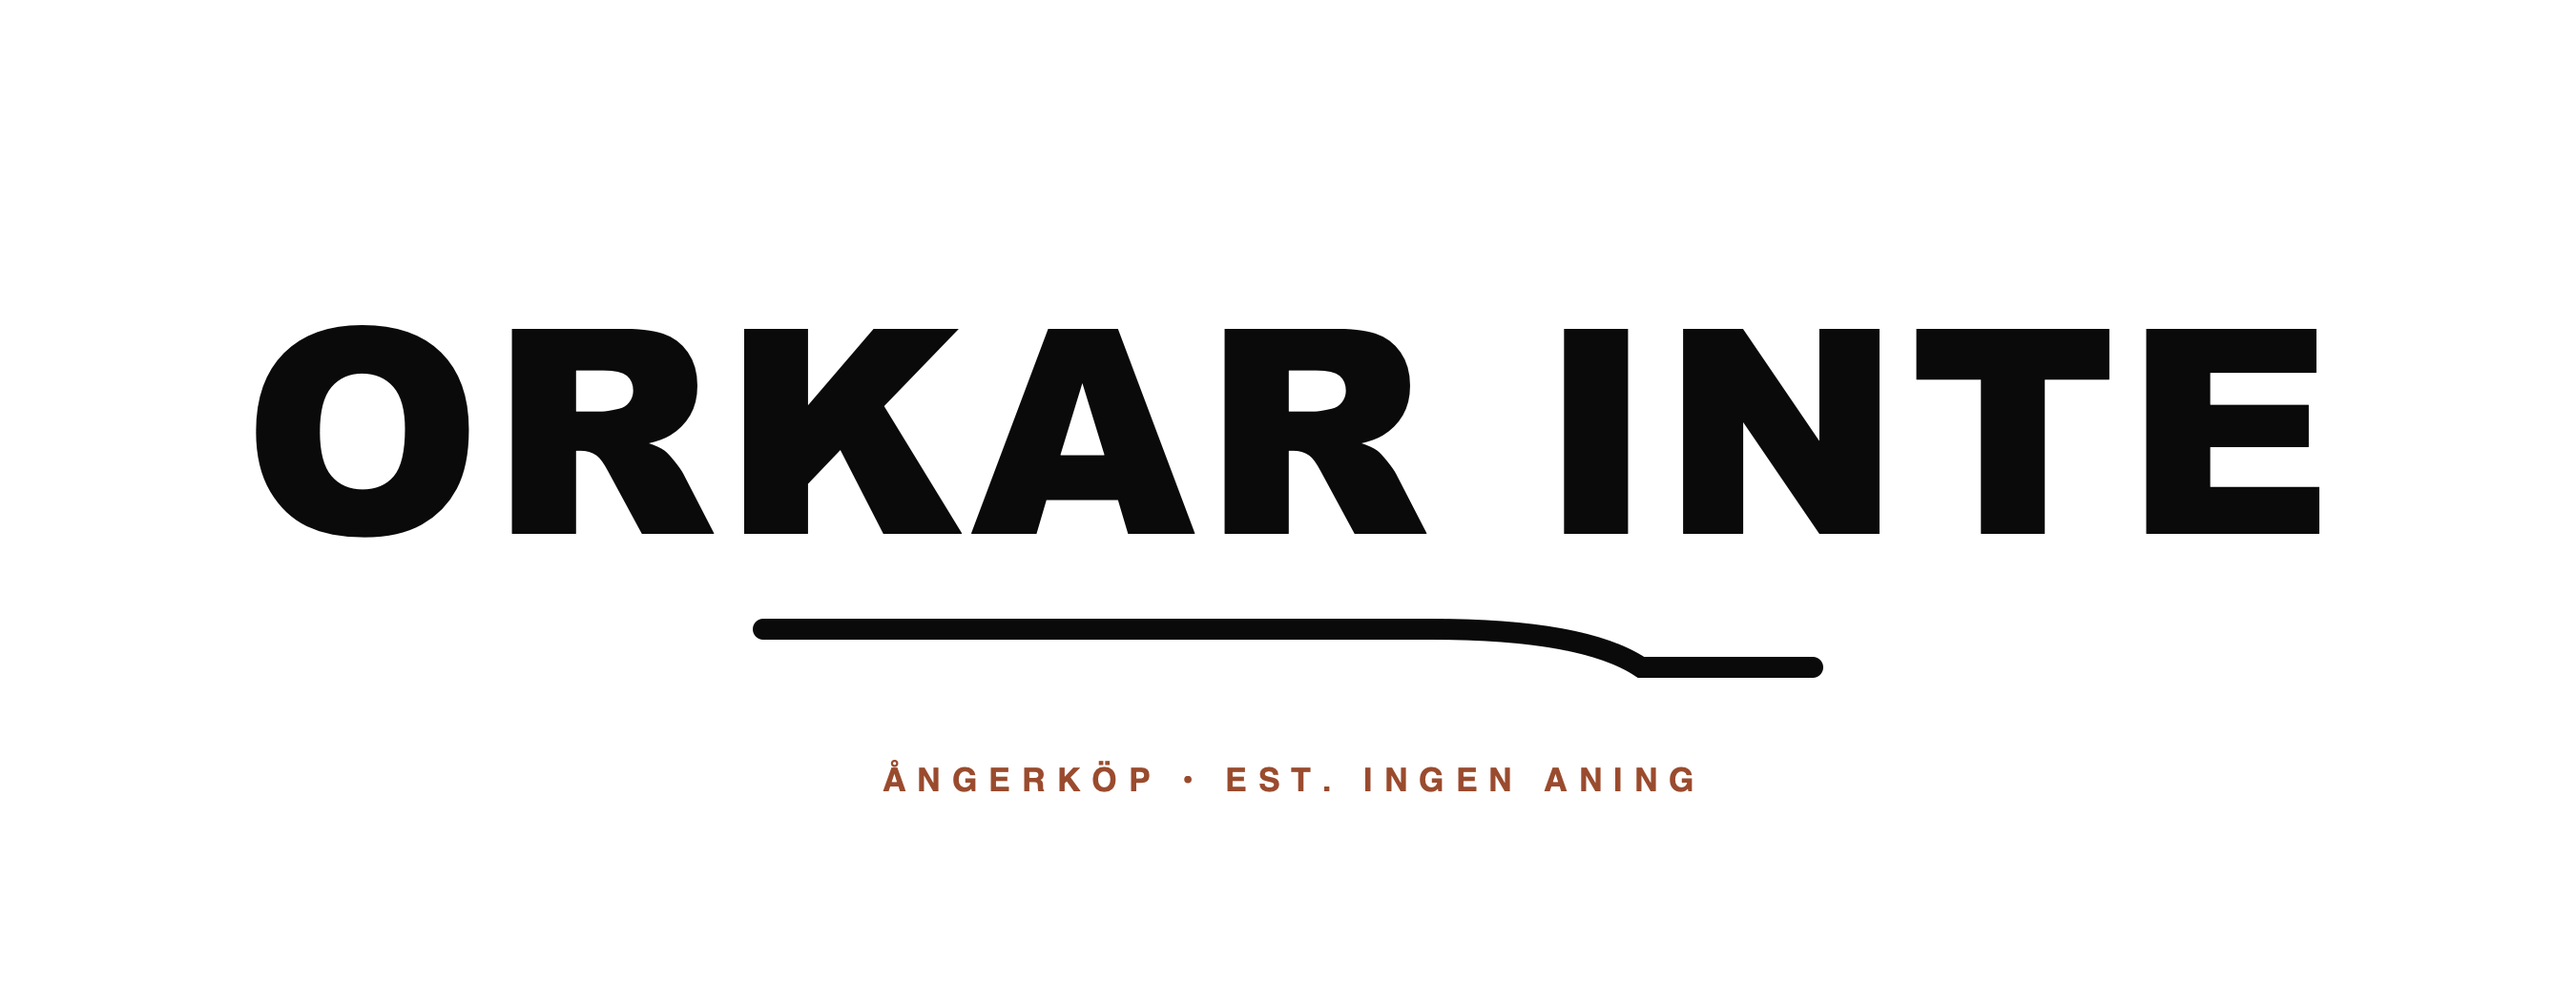
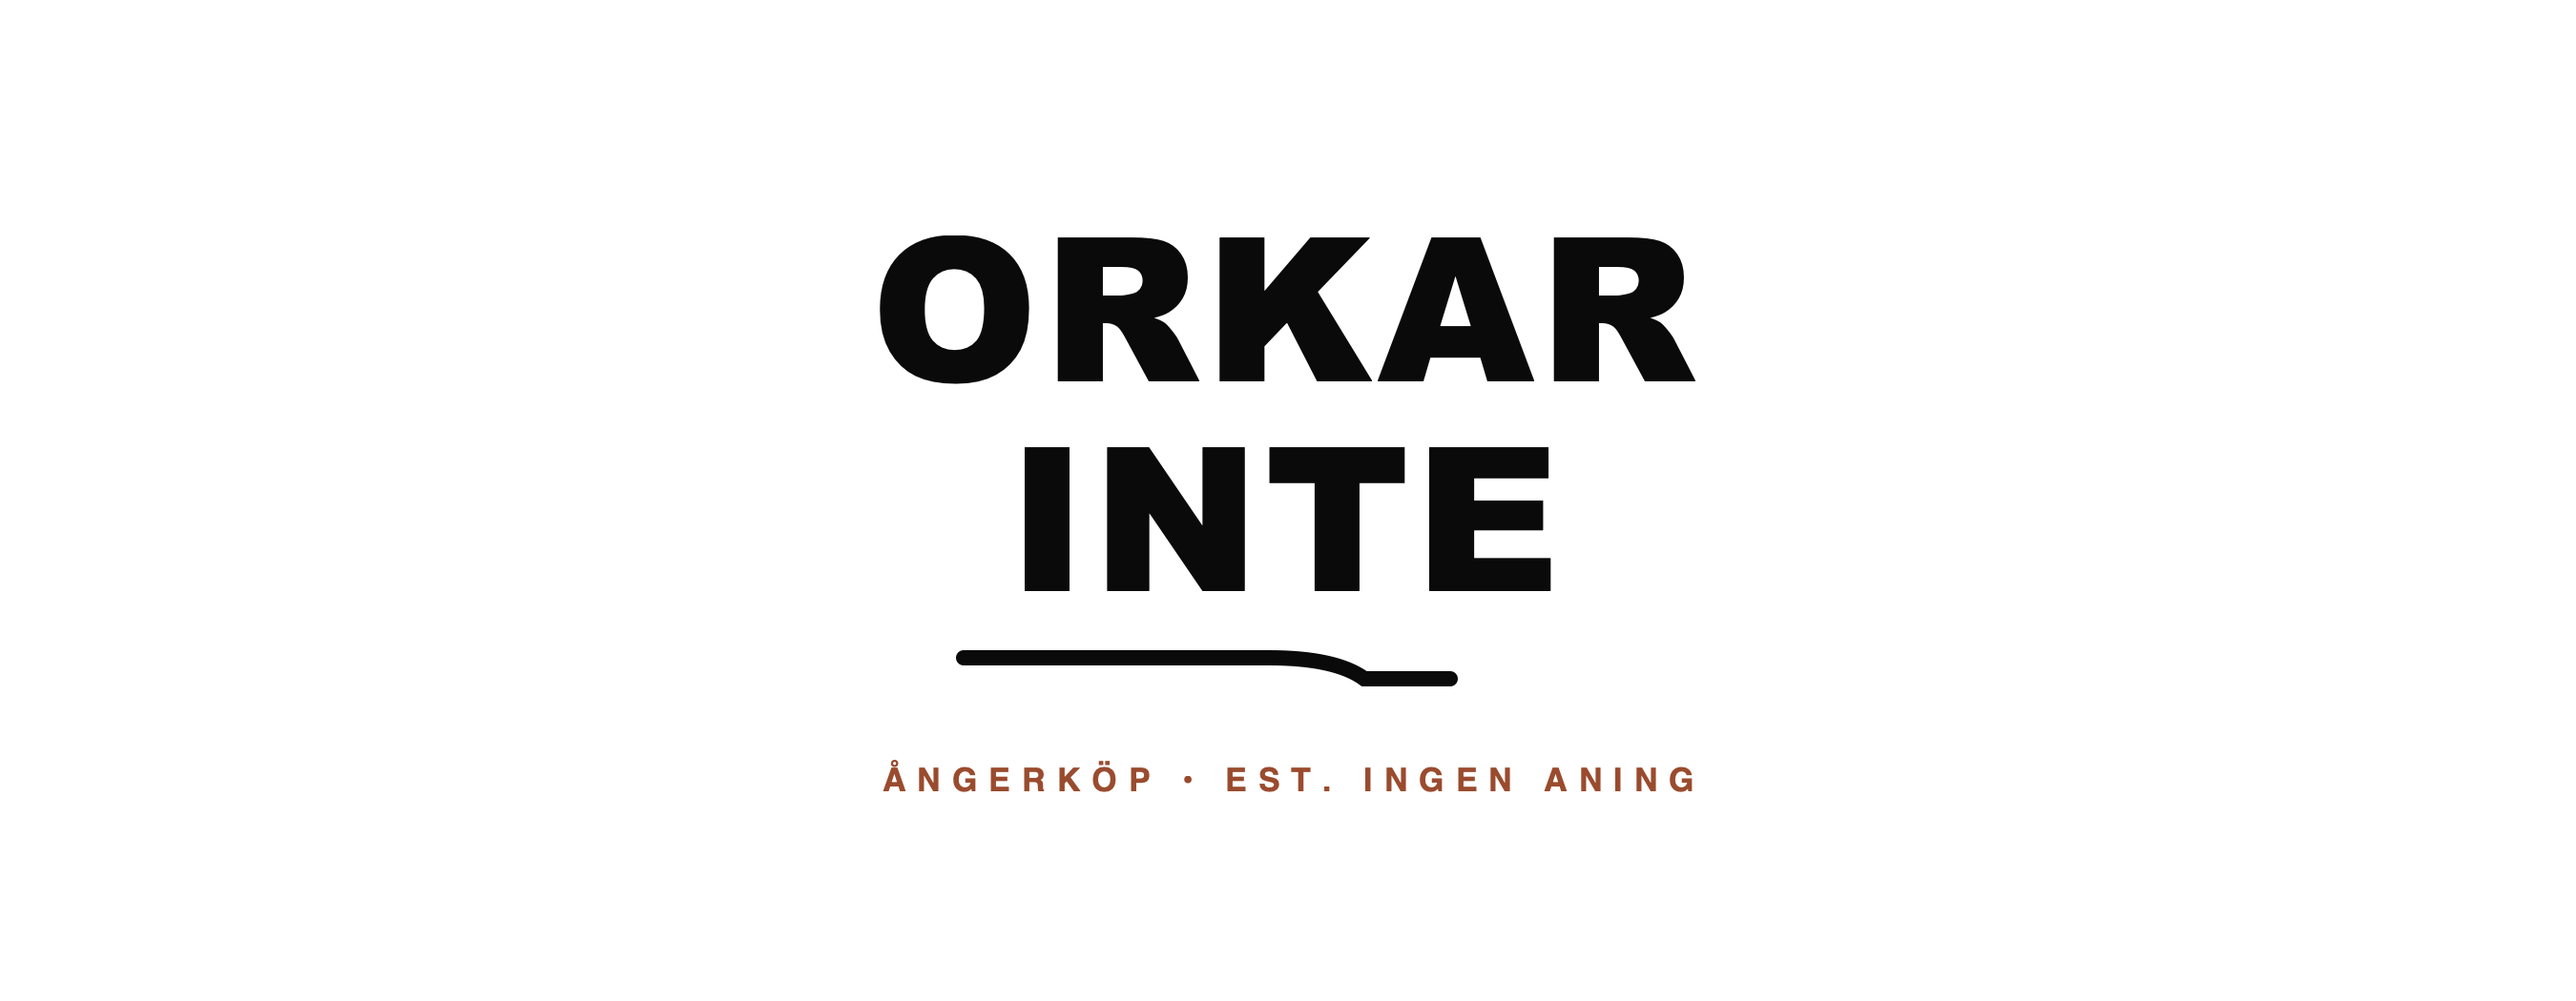
Resize mug artwork to the mug's front face
The first layout set ORKAR INTE across 83% of the 2700px wrap. The mockup
showed the result plainly: the front face read "R INTE" with "ORKA"
curved away round the side. A mug's visible face is only about a third of
the wrap, so artwork is now held inside a ~1100px centred band and verified
against that band before upload.

Changed region(s): [[0.0933, 0.2133, 0.9022, 0.701], [0.5289, 0.6705, 0.56, 0.701]]

diff --git a/merch-designs/svenska/source/build-mugs.py b/merch-designs/svenska/source/build-mugs.py
@@ -7,9 +7,11 @@ Reusing a tee file here would letterbox it: Printful fits artwork inside the
 printfile, so a 1.56 design lands ~1640px wide on a 2700px canvas and prints
 small with dead space either side. These are laid out for the wrap instead.
 
-Composition targets the mug's front face rather than a full 360° wrap. The
-design sits centred, roughly 60% of the wrap width, so it reads square-on to
-someone holding it — a full wrap would put the punchline round the side.
+Composition targets the mug's front face. That face is only about a third of
+the 2700px wrap, so artwork is held inside a ~1100px centred band. A first
+pass set "ORKAR INTE" on one line at 83% of the wrap and the mockup showed
+exactly the failure this avoids: the front read "R INTE" with "ORKA" curved
+away round the side.
 
 Mugs are white ceramic and printed by sublimation, so there is only one ink
 version: dark type. No white-ink variant is needed or possible.
@@ -41,26 +43,27 @@ def footer_tag(y):
 
 
 def orkar_inte():
-    """One line here rather than the tee's two — the wrap is wide and short,
-    so stacking would shrink the type to fit the height."""
+    """Stacked, like the tee — one line cannot fit the front face."""
     return f"""<svg viewBox="0 0 {W} {H}" xmlns="http://www.w3.org/2000/svg">
-<text x="{W//2}" y="560" text-anchor="middle" {BLACK_FACE}
-      font-size="300" letter-spacing="10" fill="{INK}">ORKAR INTE</text>
-<path d="M 800 660 L 1500 660 Q 1660 660 1720 700 L 1900 700"
-      stroke="{INK}" stroke-width="22" fill="none" stroke-linecap="round"/>
+<text x="{W//2}" y="400" text-anchor="middle" {BLACK_FACE}
+      font-size="210" letter-spacing="6" fill="{INK}">ORKAR</text>
+<text x="{W//2}" y="620" text-anchor="middle" {BLACK_FACE}
+      font-size="210" letter-spacing="6" fill="{INK}">INTE</text>
+<path d="M 1010 690 L 1330 690 Q 1400 690 1430 712 L 1520 712"
+      stroke="{INK}" stroke-width="16" fill="none" stroke-linecap="round"/>
 {footer_tag(830)}
 </svg>"""
 
 
 def utbrand_men_mysig():
     return f"""<svg viewBox="0 0 {W} {H}" xmlns="http://www.w3.org/2000/svg">
-<text x="{W//2}" y="450" text-anchor="middle" {BLACK_FACE}
-      font-size="260" letter-spacing="6" fill="{INK}">UTBRÄND</text>
-<text x="{W//2}" y="640" text-anchor="middle" {PLAIN_FACE}
-      font-size="150" letter-spacing="20" fill="{INK}">men mysig</text>
-<line x1="{W//2-300}" y1="720" x2="{W//2+300}" y2="720" stroke="{ACCENT}"
-      stroke-width="10" stroke-linecap="round"/>
-{footer_tag(850)}
+<text x="{W//2}" y="430" text-anchor="middle" {BLACK_FACE}
+      font-size="175" letter-spacing="4" fill="{INK}">UTBRÄND</text>
+<text x="{W//2}" y="580" text-anchor="middle" {PLAIN_FACE}
+      font-size="105" letter-spacing="14" fill="{INK}">men mysig</text>
+<line x1="{W//2-230}" y1="650" x2="{W//2+230}" y2="650" stroke="{ACCENT}"
+      stroke-width="8" stroke-linecap="round"/>
+{footer_tag(790)}
 </svg>"""
 
 
@@ -76,8 +79,10 @@ def compose_varning():
     the wrap height and centre it instead — it reads as a badge on the face."""
     src = Image.open(os.path.join(FINAL, "varning-impulskop-PRINT.png")).convert("RGBA")
     canvas = Image.new("RGBA", (W, H), (0, 0, 0, 0))
-    margin = 70
-    scale = (H - margin * 2) / src.height
+    # Sized to the front face (~1100px), not the wrap height, or the label
+    # curves away round the side of the mug.
+    target_w = 1040
+    scale = target_w / src.width
     label = src.resize((int(src.width * scale), int(src.height * scale)), Image.LANCZOS)
     canvas.alpha_composite(label, ((W - label.width) // 2, (H - label.height) // 2))
     out = os.path.join(FINAL, "mug-varning-impulskop-PRINT.png")
